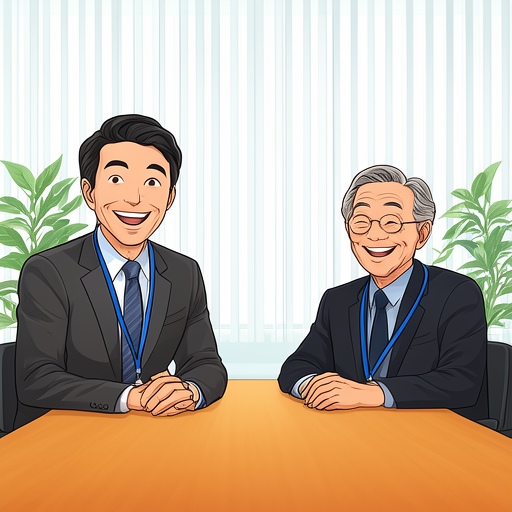
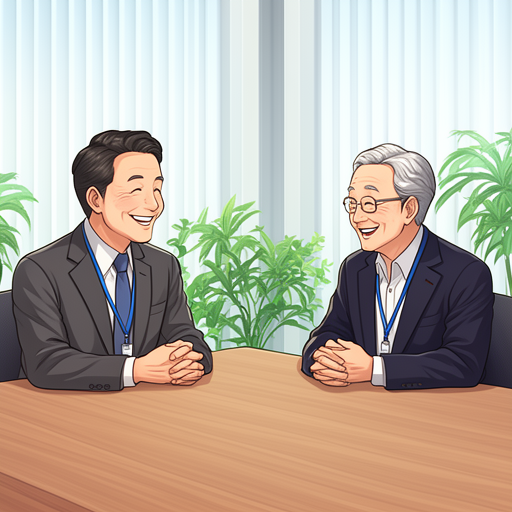
feat(illustrator): Replace illustration for #22 [CC04] with 4:3 non-frontal FLUX.2 9B

diff --git a/docs/index.html b/docs/index.html
@@ -18,7 +18,7 @@
       <div class="stat-pill"><strong>42</strong> 収録エピソード</div>
       <div class="stat-pill"><strong>42</strong> 挿絵付き作品</div>
       <div class="stat-pill">📘 A: <strong>15</strong> ／ 💻 B: <strong>13</strong> ／ ⚖ C: <strong>14</strong></div>
-      <div class="stat-pill">最終更新: 2026-10-09 21:57 JST</div>
+      <div class="stat-pill">最終更新: 2026-10-09 22:02 JST</div>
     </div>
   </header>
 
